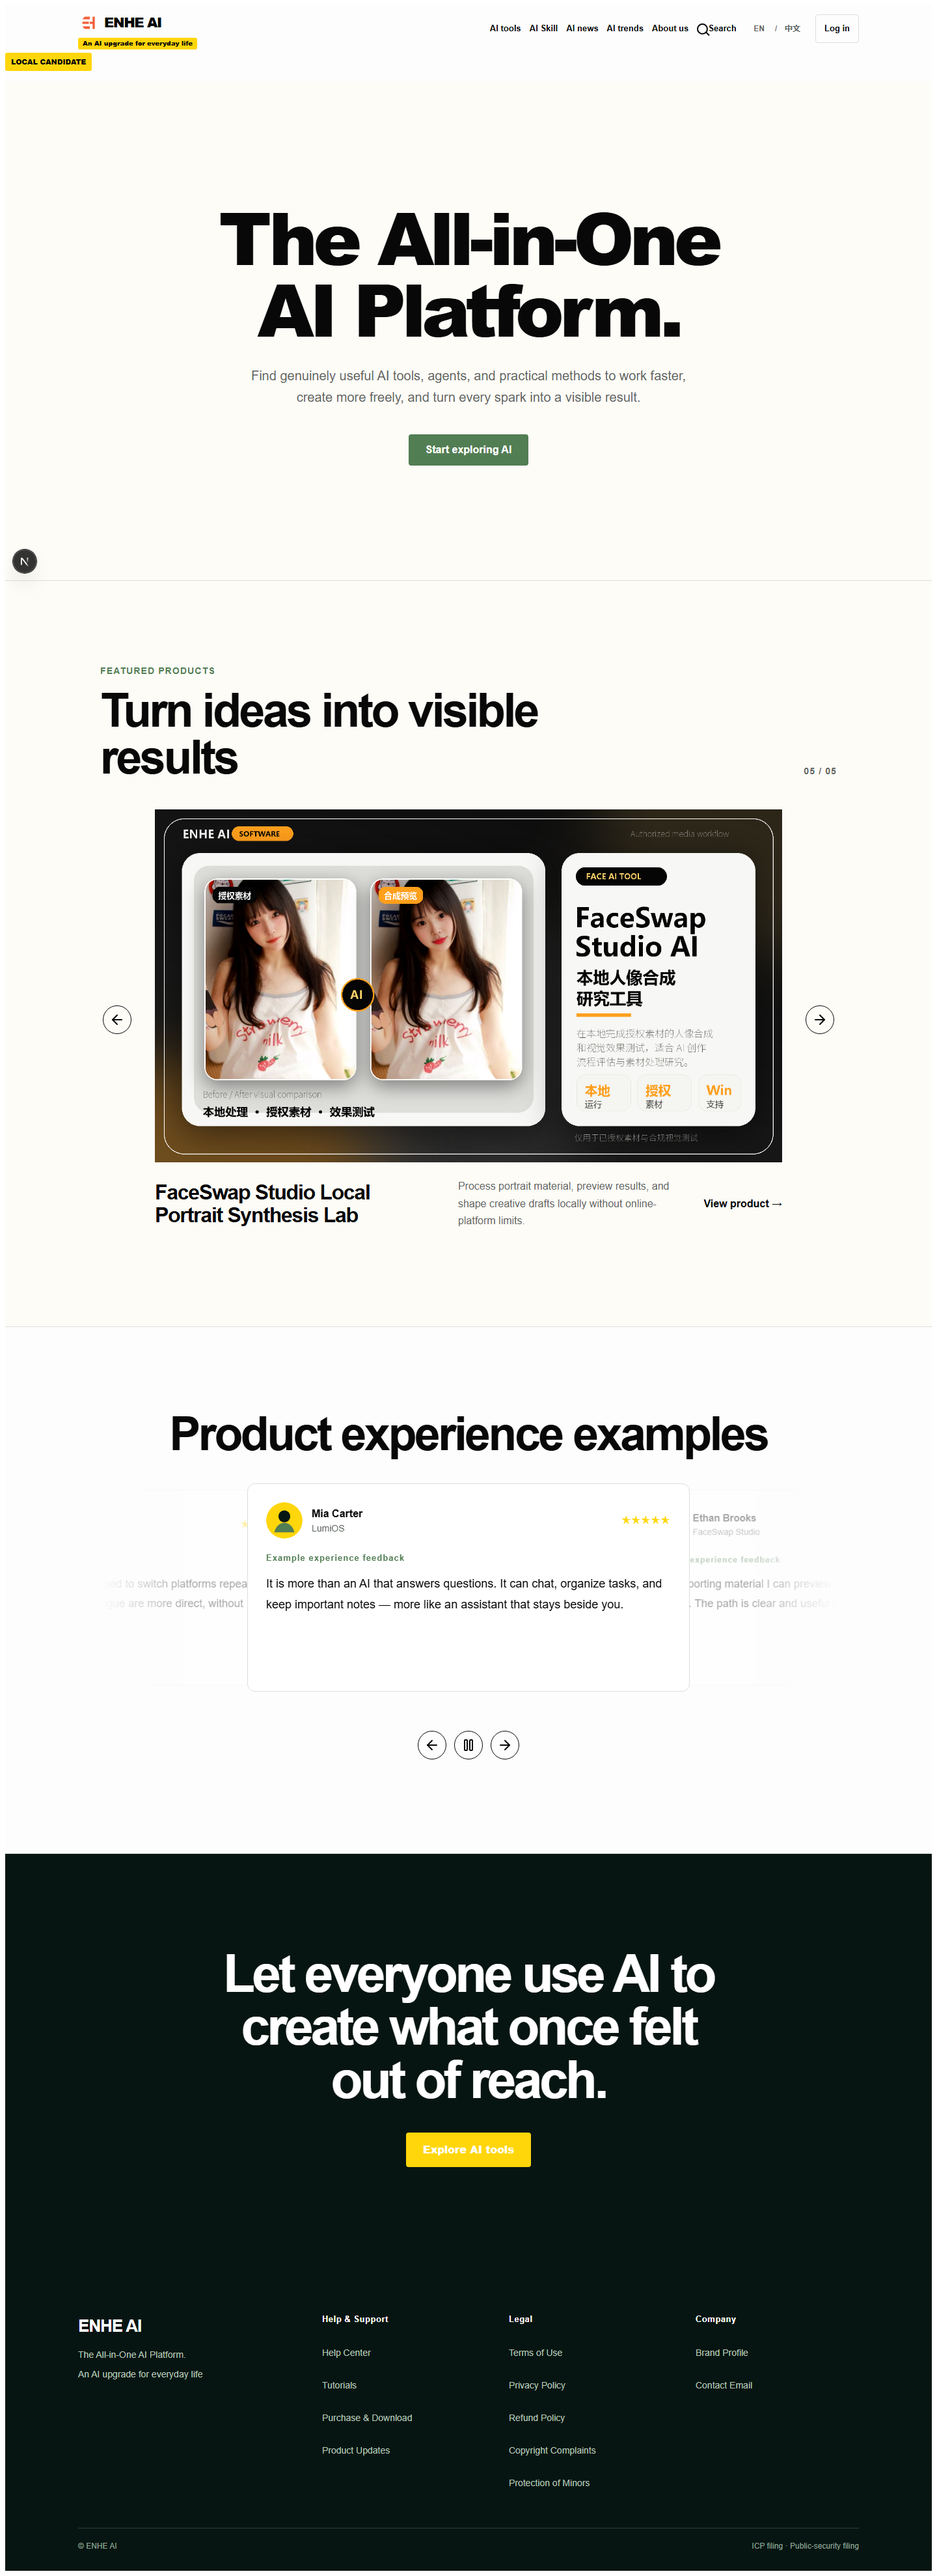
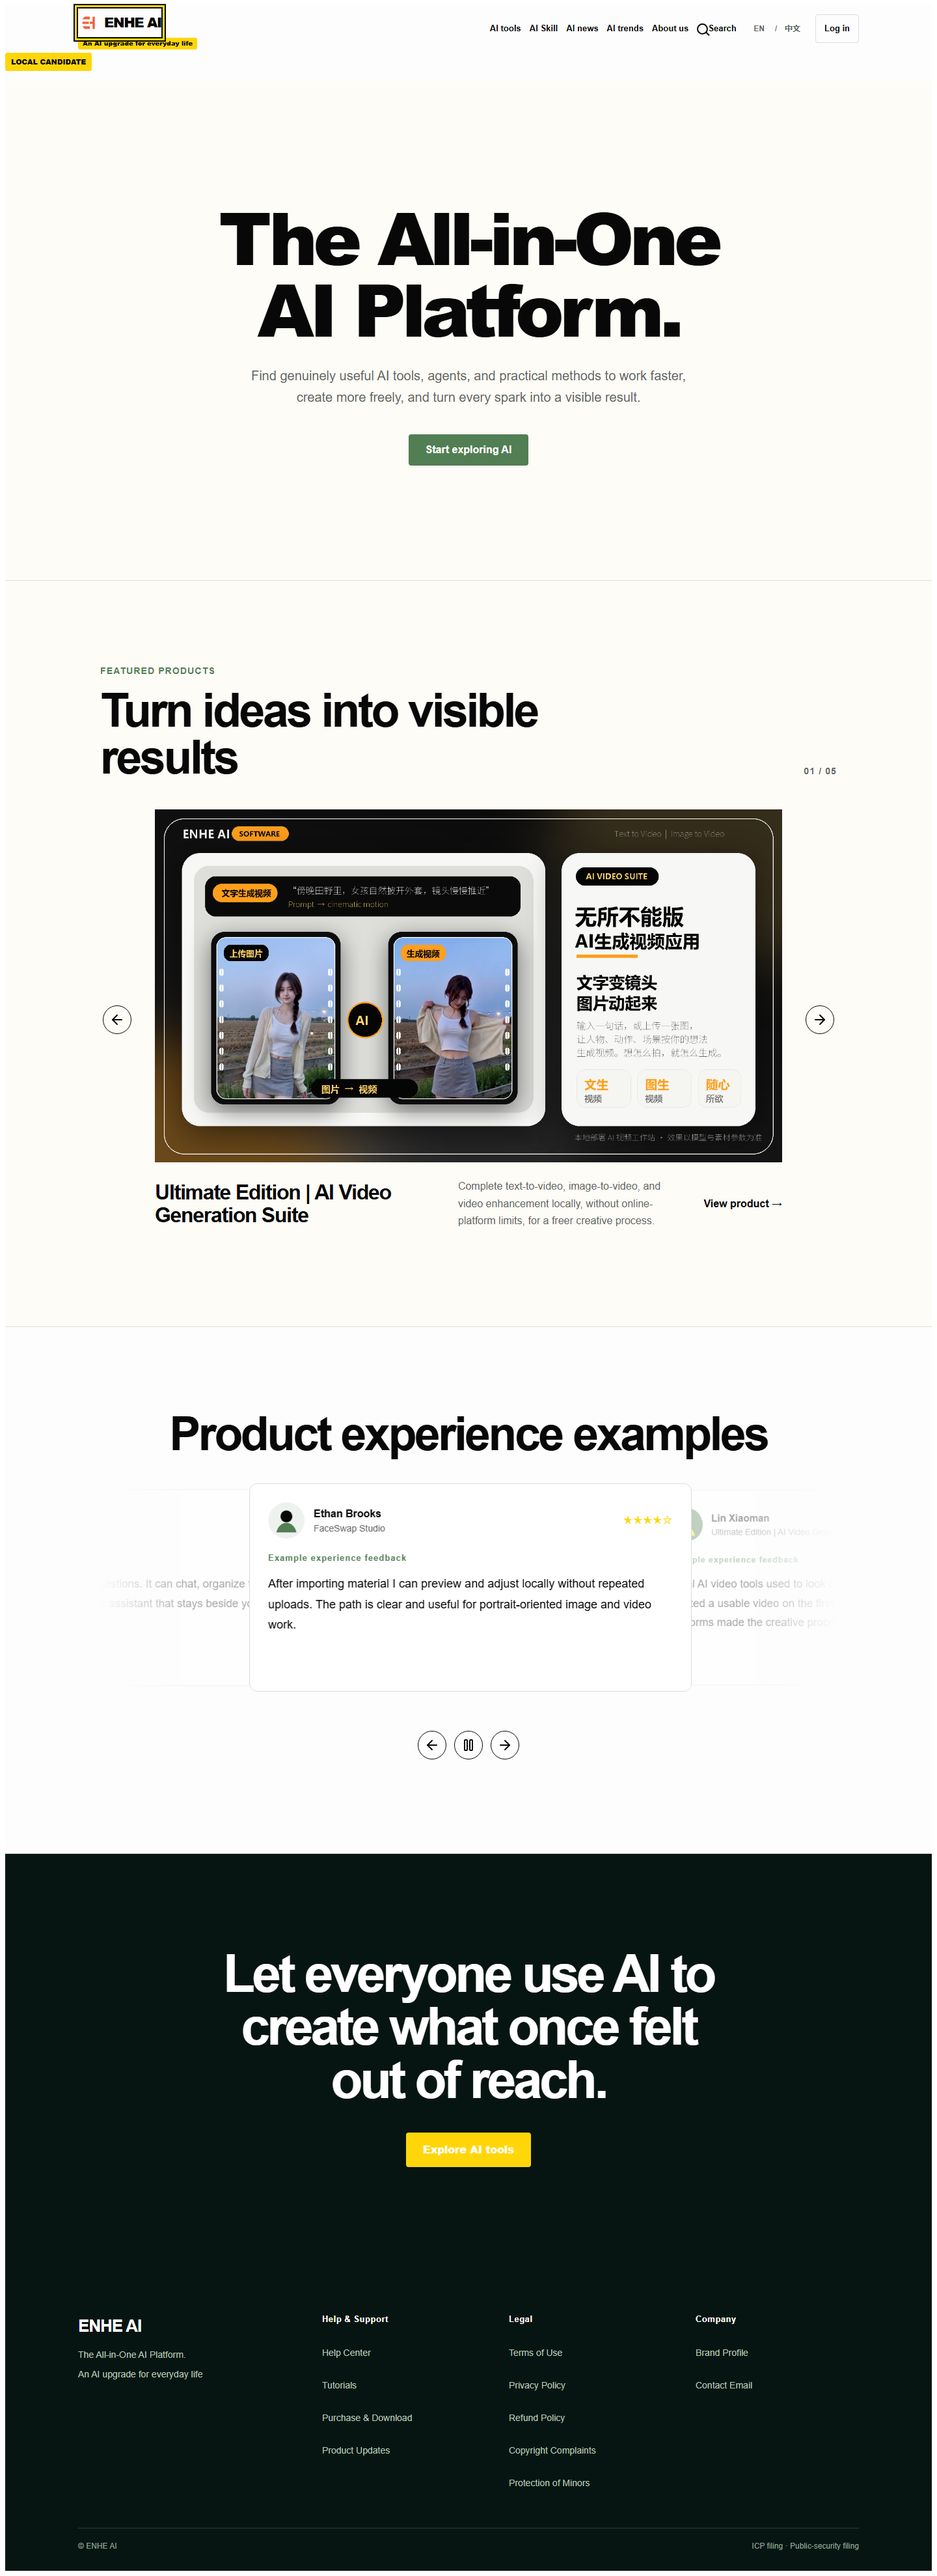
docs(home): close phase 2B.2 build and visual gates

diff --git a/docs/enhe-redesign/phase-2b2/14-PHASE-2B2R-BUILD-CLOSURE.md b/docs/enhe-redesign/phase-2b2/14-PHASE-2B2R-BUILD-CLOSURE.md
@@ -1,0 +1,85 @@
+# Phase 2B.2R Build Closure
+
+Date: 2026-08-15 (Asia/Shanghai)
+
+This document is the final authority for the previously blocked Docker, migration, production Build, and traced standalone gates. Historical blocked evidence in documents `00` through `13` is retained unchanged.
+
+## Docker and disposable database
+
+Final Docker check:
+
+```text
+DOCKER_DESKTOP_STATUS=RUNNING
+DOCKER_CONTEXT=desktop-linux
+DOCKER_OSTYPE=linux
+DOCKER_SERVER_VERSION=29.7.2
+```
+
+The final disposable run used:
+
+```text
+TEMP_DB_CONTAINER=enhe-phase2b2-build-20260815-012804
+TEMP_DB_IMAGE=postgres:16-alpine
+TEMP_DB_ID=d1e671f8b499957d9b41882dc933fa0f06a9ed7d6aa296752fd5787736437d4a
+TEMP_DB_PORT=8246
+TEMP_DB_TMPFS=True
+TEMP_DB_HOST_MOUNT=False
+TEMP_DB_HOST_NETWORK=False
+TEMP_DB_READY=PASS
+```
+
+The container used no named volume, no host mount, no host network mode, and no project network. It was stopped and removed in the cleanup path. The read-only preflight found no `codex-task6-local-red` container; the same name was absent after cleanup. It was not stopped, restarted, reused, modified, or queried for database contents.
+
+## Prisma migration gate
+
+```text
+MIGRATION_DIRECTORY_COUNT=49
+PHASE_2B2R_MIGRATION_DEPLOY=PASS
+PHASE_2B2R_MIGRATION_STATUS=PASS_SCHEMA_UP_TO_DATE
+```
+
+The local Prisma CLI applied all 49 migrations and then reported the disposable schema up to date. No seed, `migrate dev`, `migrate reset`, `db push`, introspection, or production database operation was run.
+
+## Production Build gate
+
+The final `npm run build` completed successfully in the disposable database process environment:
+
+```text
+BUILD_EXIT_CODE=0
+BUILD_DURATION_SECONDS=123.1
+BUILD_ID=piiMhTM5m2xRIVlVUQ2IT
+STATIC_PAGE_COUNT=125
+PHASE_2B2R_BUILD=PASS
+```
+
+The generated traced server was nested at `.next/standalone/.worktrees/enhe-homepage-integration-v1/server.js` because Next.js detected the repository's parent lockfile as the workspace root. The nested entry was the actual traced server emitted by this build and was used directly; no Next config or application source workaround was added.
+
+## Production-only route and safety gate
+
+The traced standalone process returned:
+
+```text
+/ = 200
+/en = 200
+/robots.txt = 200
+/sitemap.xml = 200
+/redesign-preview/home = 404
+/redesign-preview/shell = 404
+/__redesign-preview/shell = 404
+PREVIEW_PRODUCTION_STATUS=404
+PRODUCTION_PUBLIC_STATUS=PASS
+```
+
+Additional checks passed:
+
+```text
+PREVIEW_IN_SITEMAP=False
+ROBOTS_MENTIONS_PREVIEW=False
+HOME_HAS_FILE_URL=False
+HOME_HAS_FILE_PATH=False
+EN_HAS_FILE_URL=False
+EN_HAS_FILE_PATH=False
+```
+
+The standalone process was stopped by exact PID. Temporary `DATABASE_URL` and `DIRECT_URL` values were process-only and restored. No production database, deployment, remote, or push action occurred.
+

diff --git a/docs/enhe-redesign/phase-2b2/16-PHASE-2B2R-FINAL-RECEIPT.md b/docs/enhe-redesign/phase-2b2/16-PHASE-2B2R-FINAL-RECEIPT.md
@@ -1,0 +1,95 @@
+# Phase 2B.2R Final Receipt
+
+Date: 2026-08-15 (Asia/Shanghai)
+
+## Authoritative status
+
+```text
+PHASE_2B_2R_STATUS=PASS
+PHASE_2B_2_STATUS=PASS
+HOMEPAGE_CANDIDATE_INTEGRATION_STATUS=PASS
+PUBLIC_SHELL_AND_HOMEPAGE_INTEGRATION_STATUS=PASS
+
+PHASE_1B_PUBLIC_SHELL_STATUS=READY_FOR_PRODUCTION_WIRING_APPROVAL
+HOMEPAGE_PRODUCTION_WIRING_STATUS=NOT_STARTED
+
+PRODUCTION_HEADER_REPLACED=NO
+PRODUCTION_FOOTER_REPLACED=NO
+PRODUCTION_HOME_REPLACED=NO
+
+PHASE_1B_PRODUCT_DETAIL_STATUS=NOT_READY
+PHASE_1B_COMMERCE_STATUS=NOT_READY
+PHASE_1B_OVERALL_STATUS=NOT_READY
+PHASE_2B_2_NEXT_ACTION=READY_FOR_PHASE_2C_1_PUBLIC_SHELL_AND_HOMEPAGE_PRODUCTION_WIRING_APPROVAL
+```
+
+## Git and scope
+
+```text
+WORKTREE_PATH=C:\Users\HU\Documents\New project 2\.worktrees\enhe-homepage-integration-v1
+BRANCH=codex/enhe-homepage-integration-v1
+START_HEAD=c86f1aa
+WORKTREE_CLEAN=YES
+UNAUTHORIZED_PATHS=NONE
+PUSHED=NO
+```
+
+The only new commit required by this recovery is the docs-only commit with subject:
+
+```text
+docs(home): close phase 2B.2 build and visual gates
+```
+
+The four screenshot replacements and documents `14`, `15`, and `16` are the only files staged for that commit. No application source, package, lockfile, Prisma schema/migration, middleware, Root Layout, public Header, public Footer, or production Home was changed.
+
+## Technical receipt
+
+```text
+DOCKER_DESKTOP_STATUS=RUNNING
+DOCKER_CONTEXT=desktop-linux
+DOCKER_OSTYPE=linux
+MIGRATION_COUNT=49
+MIGRATION_DEPLOY=PASS
+MIGRATION_STATUS=PASS_SCHEMA_UP_TO_DATE
+BUILD=PASS
+BUILD_ID=piiMhTM5m2xRIVlVUQ2IT
+STATIC_PAGE_COUNT=125
+
+ROOT_HTTP_STATUS=200
+EN_HTTP_STATUS=200
+ROBOTS_HTTP_STATUS=200
+SITEMAP_HTTP_STATUS=200
+HOME_PREVIEW_PRODUCTION_STATUS=404
+SHELL_PREVIEW_PRODUCTION_STATUS=404
+OLD_PRIVATE_PREVIEW_STATUS=404
+PREVIEW_IN_SITEMAP=NO
+
+R008_STATUS=CLOSED
+BYTEDANCE_LOADER_PRESENT=NO
+ANALYTICS_TRACKER_PRESENT=YES
+HEARTBEAT_SEAM_STATUS=PASS
+WRITER_FIX_STATUS=PASS
+
+SCREENSHOT_COUNT=4
+NEXT_DEV_INDICATOR_VISIBLE=NO
+SEED_GIT_CANONICAL_CHANGED=NO
+
+DISPOSABLE_DB_CONTAINER_REMOVED=YES
+TEMP_DATABASE_ENV_RESTORED=YES
+EXISTING_CONTAINER_UNCHANGED=YES_NOT_PRESENT_BEFORE_AND_AFTER
+PRODUCTION_DATABASE_ACCESSED=NO
+
+PRODUCTION_HEADER_REPLACED=NO
+PRODUCTION_FOOTER_REPLACED=NO
+PRODUCTION_HOME_REPLACED=NO
+PACKAGE_CHANGED=NO
+LOCKFILE_CHANGED=NO
+PRISMA_CHANGED=NO
+REMOTE_CHANGED=NO
+DEPLOYMENT_STARTED=NO
+```
+
+The previous `00-13` evidence remains historical context for the Docker-unavailable state. Documents `14-16` supersede that state and are the final authority for Phase 2B.2R.
+
+The result ZIP is generated separately after this docs-only commit and contains only `docs/enhe-redesign/phase-2b2/**`.
+

diff --git a/docs/enhe-redesign/phase-2b2/15-CLEAN-VISUAL-EVIDENCE.md b/docs/enhe-redesign/phase-2b2/15-CLEAN-VISUAL-EVIDENCE.md
@@ -1,0 +1,40 @@
+# Phase 2B.2R Clean Visual Evidence
+
+## Capture gate
+
+The four screenshots were regenerated from the development-only route using a temporary Playwright harness. The harness removed only the `nextjs-portal` development indicator from the screenshot page DOM immediately before capture; it did not edit application source, CSS, Next config, or Root Layout.
+
+Final browser result:
+
+```text
+SCREENSHOT_PASS=zh-home-integration-1440.png
+SCREENSHOT_PASS=zh-home-integration-390.png
+SCREENSHOT_PASS=en-home-integration-1440.png
+SCREENSHOT_PASS=en-home-integration-390.png
+NEXT_DEV_INDICATOR_VISIBLE=NO
+CLEAN_VISUAL_EVIDENCE=PASS
+```
+
+## Files
+
+| File | Dimensions | Bytes |
+|---|---:|---:|
+| `screenshots/zh-home-integration-1440.png` | 1440 x 3846 | 462461 |
+| `screenshots/zh-home-integration-390.png` | 390 x 3514 | 168024 |
+| `screenshots/en-home-integration-1440.png` | 1440 x 3956 | 476393 |
+| `screenshots/en-home-integration-390.png` | 390 x 3681 | 161591 |
+
+## Visual and interaction checks
+
+The harness verified both locales and both widths, including the header, hero, five-product showcase surface, review section, brand-value section, and footer. It also verified:
+
+- no normal-viewport horizontal overflow;
+- content remains present under a 200% zoom simulation;
+- `focus-visible` is reachable by keyboard;
+- reduced-motion prevents review auto-advance;
+- the outer `LOCAL CANDIDATE` label appears exactly once;
+- no candidate state label is rendered inside the homepage content;
+- all document images are complete before capture.
+
+The screenshots were independently viewed after capture. No Next.js development indicator is visible. `LOCAL CANDIDATE` remains intentionally visible only as the outer preview marker.
+
